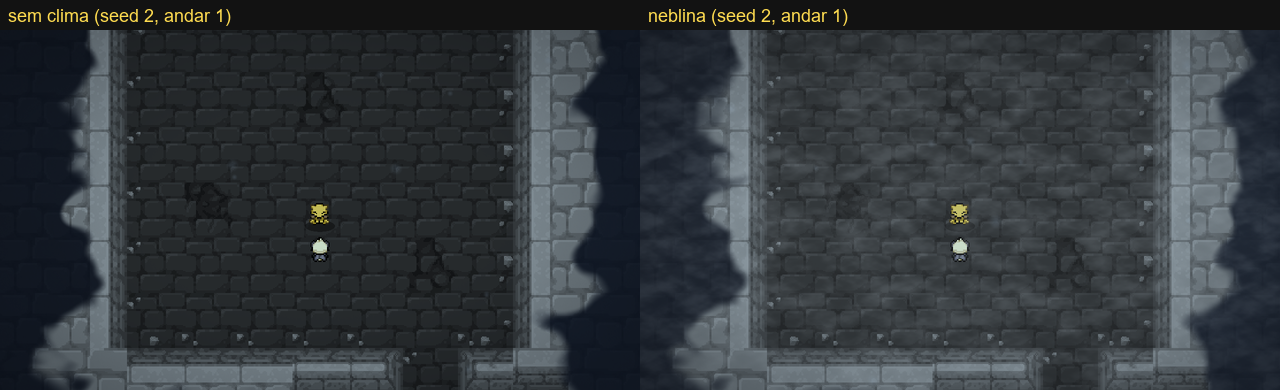
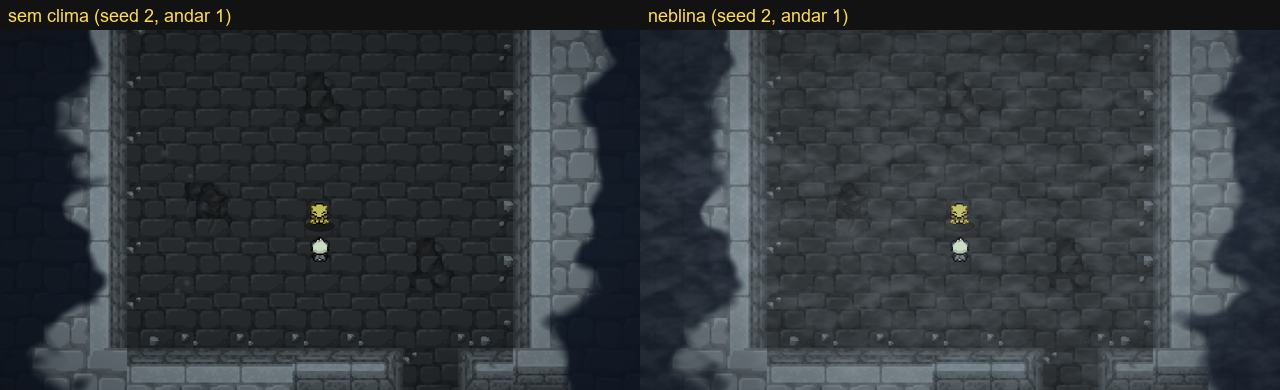
docs(exploration): verify the mist in the main worktree (D-384)
The exploration scene now runs in the main worktree and both captures were made there (seed 2, floor 1): the real-roll mist and the no-weather before shot. The before/after contact sheet was regenerated. No shader errors. Other sessions' uncommitted combat/heal changes were not touched.

diff --git a/docs/decisoes/README.md b/docs/decisoes/README.md
@@ -290,4 +290,4 @@ Fontes: **Conversa** = o que o criador disse (frase literal entre aspas); **PROM
 - [D-381 — Clima aprovado: só visual, os três eventos, raro e distorção temporal](D-381-clima-aprovado-visual-tres-eventos-e-raro.md) — clima não altera nenhuma regra; neblina é véu visual (raio 7,5/LOS intactos); entram calor, chuva/neve com respingo e distorção temporal; frequência rara com cadência pendente; clima fora do Motion Composer (D-383); CPUParticles2D (GL Compatibility).
 - [D-382 — Clima: 20% por andar, 20–40 s e mapa de biomas de D-362](D-382-clima-cadencia-20-por-andar-duracao-20-40s.md) — rolagem determinística por andar (1 em 5), no máximo um evento, 20–40 s com fade; mapeamento de D-362 mantido; clima fora do Motion Composer (D-383); nada implementado.
 - [D-383 — Clima fora do Motion Composer; D-308 restrito ao VFX de combate](D-383-clima-fora-do-motion-composer-e-escopo-do-d-308.md) — clima/exploração é camada 2D de ambiente e não usa o Composer; D-308 e o protocolo valem só para VFX de Move/elemento em combate; o Composer não é gate para clima.
-- [D-384 — Neblina implementada: camada 2D, rolagem de 20% e capturas](D-384-neblina-implementada-camada-2d-rolagem-e-capturas.md) — shader `weather_mist` + controller 20%/andar (20–40 s, fade 2 s), camada 2D abaixo da UI; antes/depois em `docs/referencias/exploracao/weather_mist_before_after.png`; calor/chuva pendentes; testado em worktree descartável porque o principal tem erros de outras sessões.
+- [D-384 — Neblina implementada: camada 2D, rolagem de 20% e capturas](D-384-neblina-implementada-camada-2d-rolagem-e-capturas.md) — shader `weather_mist` + controller 20%/andar (20–40 s, fade 2 s), camada 2D abaixo da UI; antes/depois em `docs/referencias/exploracao/weather_mist_before_after.png`; calor/chuva pendentes; capturas feitas no worktree principal.

diff --git a/docs/decisoes/D-384-neblina-implementada-camada-2d-rolagem-e-capturas.md b/docs/decisoes/D-384-neblina-implementada-camada-2d-rolagem-e-capturas.md
@@ -21,10 +21,11 @@
 - Captura pela **rolagem real** (seed 2, andar 1): `scratch/weather_mist_roll.png`.
 - Antes/depois: `docs/referencias/exploracao/weather_mist_before_after.png` (mesmo seed/andar, sem clima × com neblina).
 - O shader compilou e desenhou no **GL Compatibility** durante a captura; não houve erro de shader.
+- A captura de rolagem real e a de "sem clima" foram feitas no **worktree principal** (seed 2, andar 1); a cena abriu e desenhou sem erro de shader.
 
 ## O que não foi verificado
 
-- **O jogo no worktree principal não rodou:** há erros de parse de outras sessões em `scripts/ui/battle_hud.gd` (`_slant`) e `scripts/combat/fx/heal_gain_mark.gd` (`_fit_to_camera`). A captura foi feita num **worktree descartável em HEAD**, com um patch de teste somente em `heal_gain_mark.gd`; os arquivos de batalha do worktree principal **não** foram tocados.
+- **O worktree continua misto:** a cena de exploração rodou no worktree principal e as capturas foram feitas nele, mas o worktree tem alterações não commitadas de outras sessões (combate/heal). Nada dessas sessões foi tocado.
 - Calor ondulado, chuva/neve, cinza e distorção temporal não implementados.
 - Performance não medida; é um `ColorRect` de tela cheia com uma amostragem de ruído.
 - Não há vídeo; as provas são capturas estáticas.
